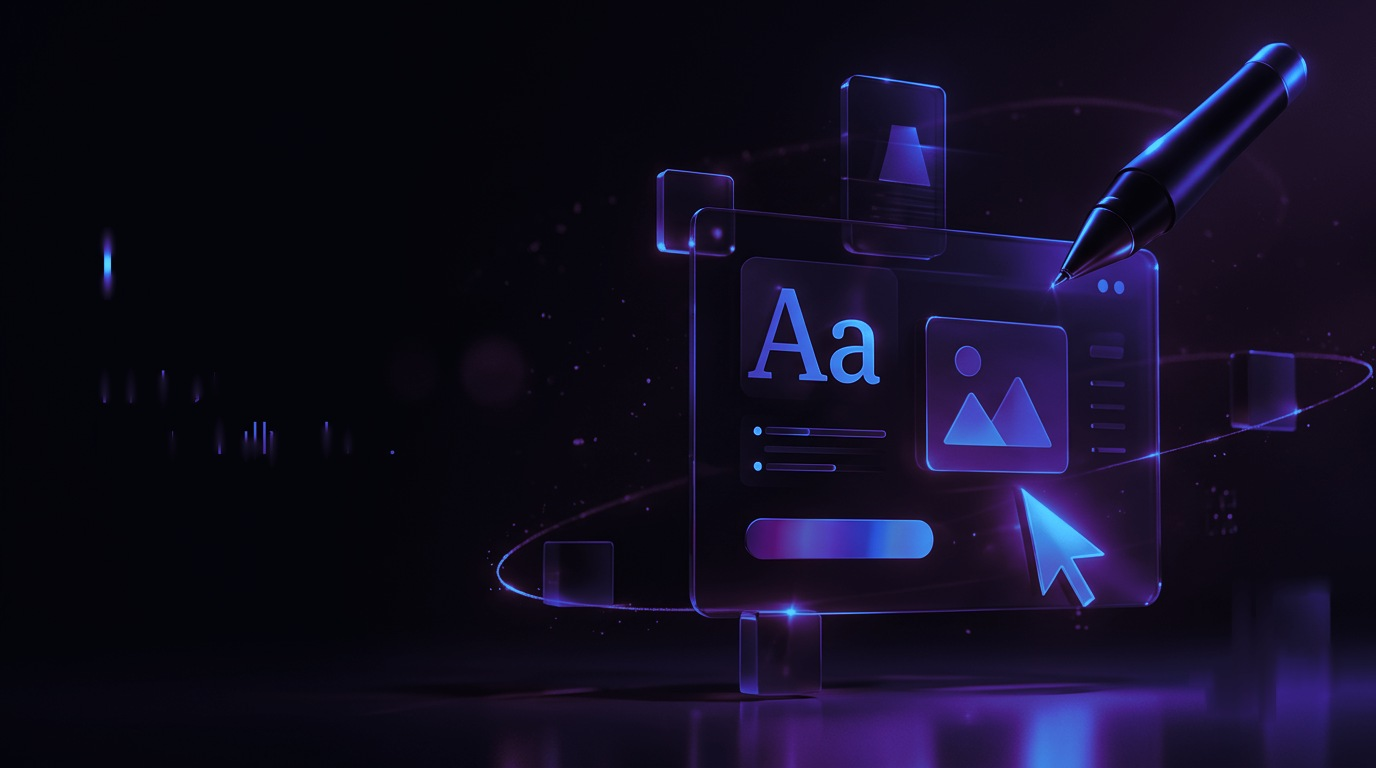
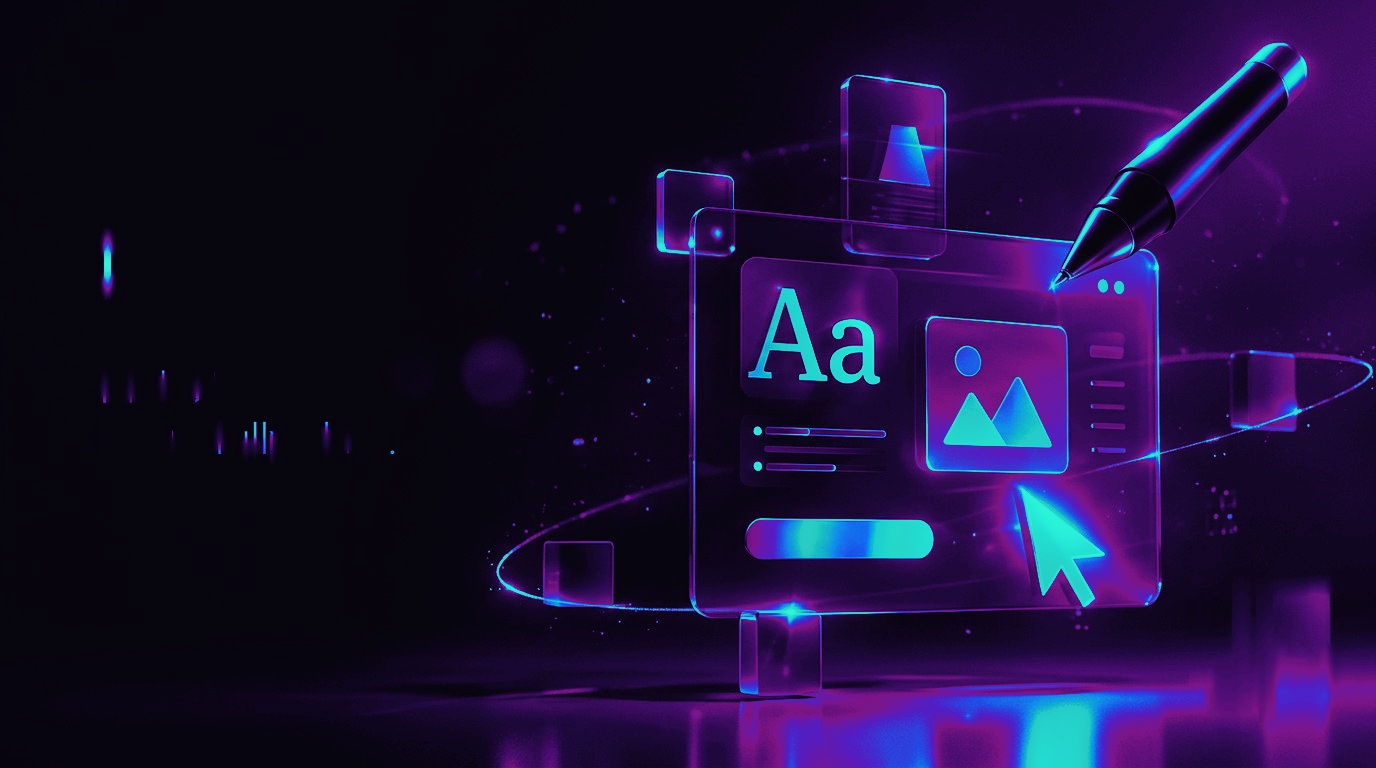
fix(brand): one colour grade across every image on the site
The imagery read as three unrelated sets: the pod plates were blue, the pricing and why-a-pod plates
were brown, and the hall render was grey-teal. Each was toned for itself, so nothing matched.

Every photographic asset is now graded by the same luminance map — deep violet through magenta, indigo,
blue and cyan to a spring-green highlight. No red or yellow stop: those belong to the CTA, and a map
that reaches them competes with the only gold on the page.

The map alone was not enough for the flat illustrations. A bright ground with faint figures occupies a
narrow slice of the ramp and collapses to a single flat blue — which is exactly what happened to the
why-a-pod fork on the first pass. Stretching the tonal range to its 2nd and 98th percentiles before
mapping is what makes the same ramp read as a gradient on those plates.

The pod plates were regenerated on the identical ramp so they stop being the odd cool set, and the two
line drawings were recoloured from gold to violet and cyan. Those drawings were authored as faint
watermarks — opacities of 0.04 to 0.20 — so their opacities are lifted in the file rather than papered
over with a CSS filter, and .hero-art no longer dims them a second time on the way out.

Also fixed a background reference to brand/pods-hall.jpg, a file that does not exist; the cleaned
render is pods-hall-clean.jpg.

Originals of every asset are kept outside the repo in the session scratch folder.

diff --git a/apps/web/src/app/globals.css b/apps/web/src/app/globals.css
@@ -2077,6 +2077,9 @@ textarea:focus {
    to the right, and faded into the page at its left edge so the copy meets no
    hard boundary — the drawing is transparent, so there is nothing to mask. */
 .hero-art {
+  /* the supplied drawings were authored as faint watermarks; the opacity lift lives in the file,
+     this keeps the band from dimming them a second time on the way out */
+  opacity: 0.95;
   /* height-based rather than `contain`: with the box wider than the drawing's
      aspect, contain pins the art to the container edge and clips the last figure.
      A height rule plus a right inset keeps the whole composition inside the band. */

diff --git a/apps/web/src/components/marketing/capability-grid.tsx b/apps/web/src/components/marketing/capability-grid.tsx
@@ -101,7 +101,7 @@ export function CapabilityGrid({
           <div
             aria-hidden="true"
             className="podbg pointer-events-none absolute inset-0 -z-10"
-            style={{ backgroundImage: "url('/brand/pods-hall.jpg')" }}
+            style={{ backgroundImage: "url('/brand/pods-hall-clean.jpg')" }}
           />
           <div
             aria-hidden="true"
